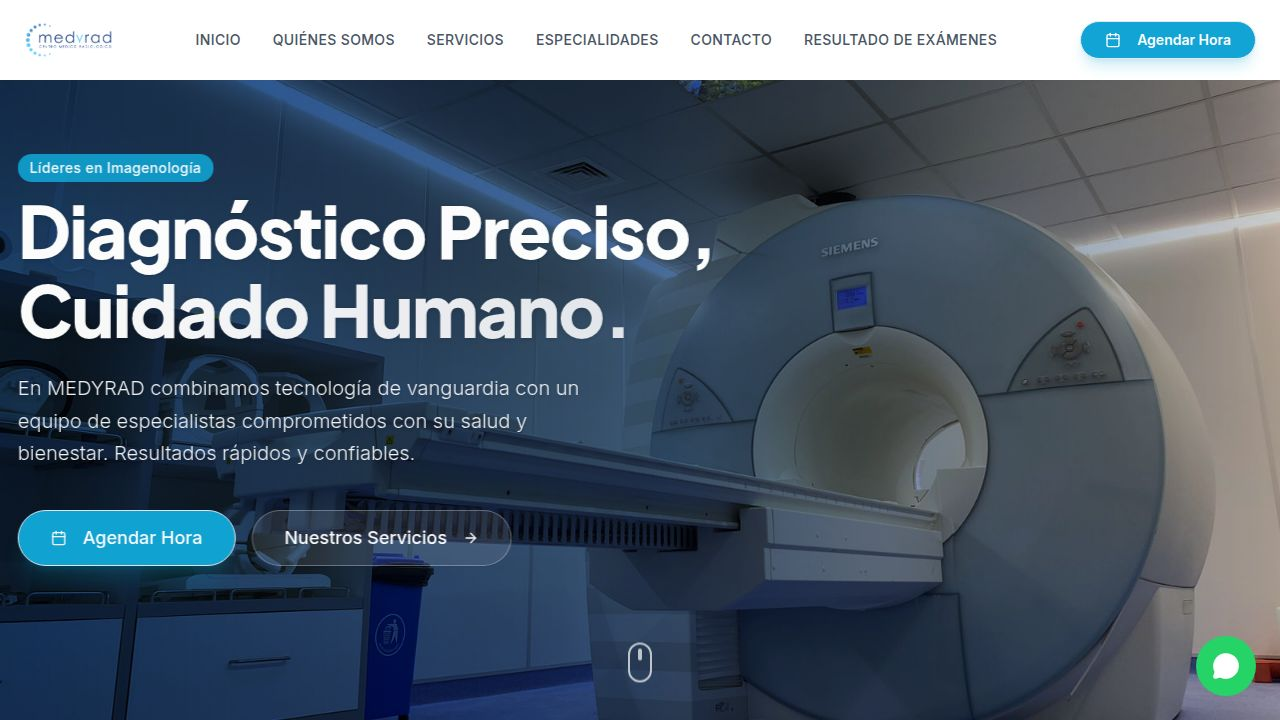
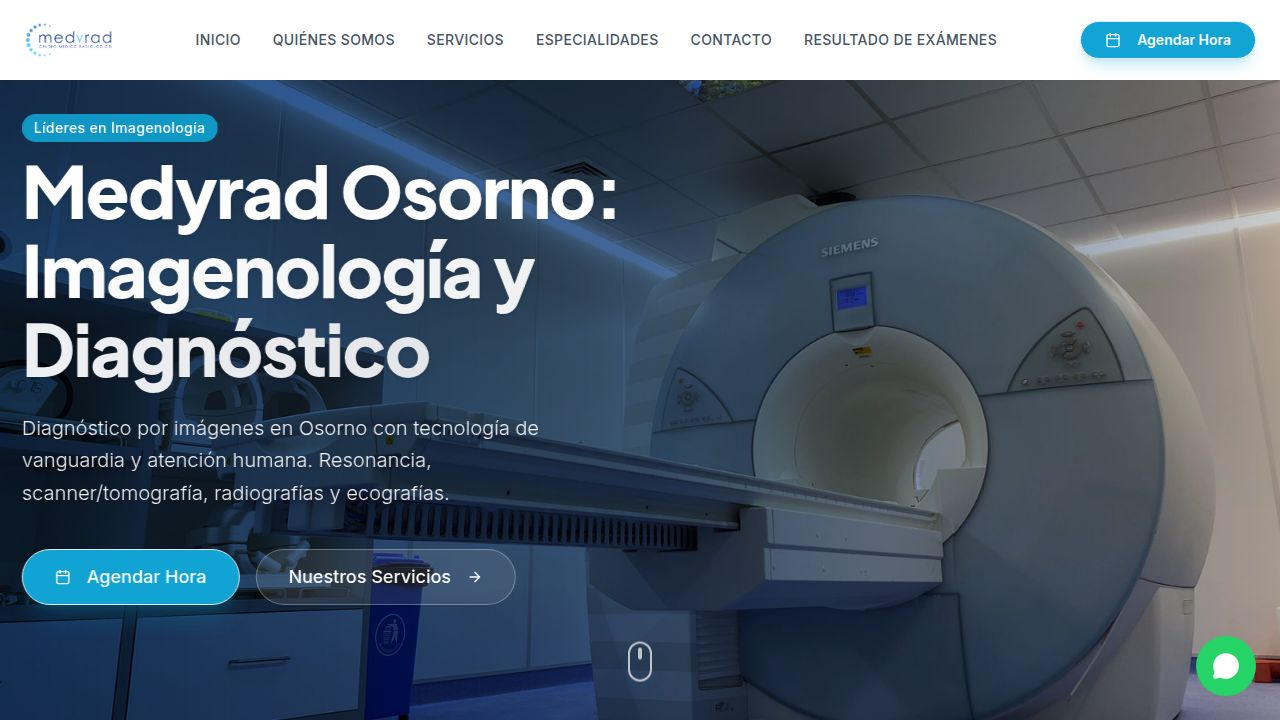
Update ultrasound service description to be more concise
Modify the description for the ultrasound service to remove specific imaging techniques like Doppler and 4D.

Replit-Commit-Author: Agent
Replit-Commit-Session-Id: 63373e2b-6b8e-4db2-a1ee-14f812783dd6
Replit-Commit-Checkpoint-Type: full_checkpoint
Replit-Commit-Event-Id: 5453c646-26b3-4616-8de2-7982794cb666
Replit-Commit-Screenshot-Url: https://storage.googleapis.com/screenshot-production-us-central1/faf50a49-8852-4778-91f6-63ca2a282e5d/63373e2b-6b8e-4db2-a1ee-14f812783dd6/5Wo8lCv
Replit-Helium-Checkpoint-Created: true

Changed region(s): [[0.0, 0.1528, 0.5625, 0.55], [0.0, 0.5806, 0.4375, 0.8556]]

diff --git a/client/src/components/sections/Services.tsx b/client/src/components/sections/Services.tsx
@@ -31,7 +31,7 @@ const services = [
   },
   {
     title: "Ecografías",
-    description: "Ultrasonido Doppler color y 4D abdominal, partes blandas y vascular.",
+    description: "Ecografías abdominal, partes blandas y vascular.",
     icon: Activity,
     image: ultrasoundImg,
     color: "bg-teal-50 text-teal-600",
